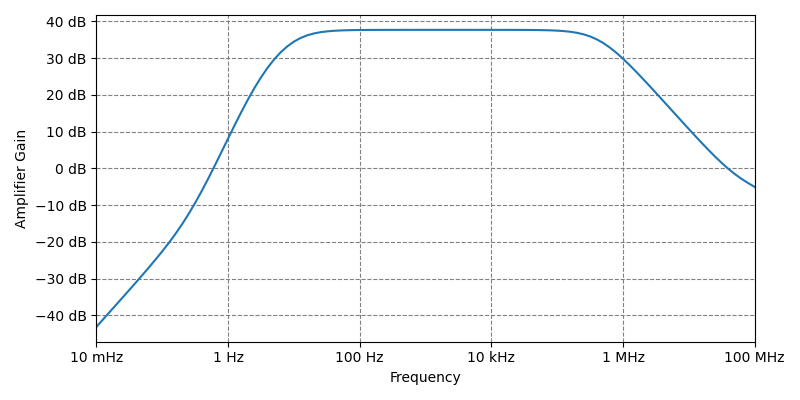
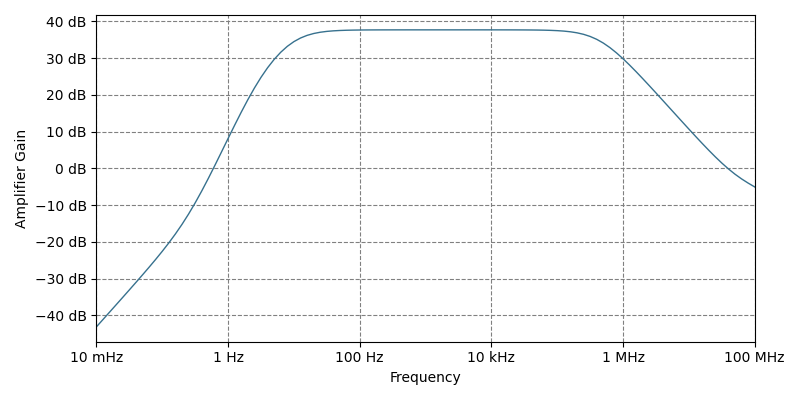
change color line

diff --git a/direct-coupling-lab/source code/direct-coupling-freq-res.py b/direct-coupling-lab/source code/direct-coupling-freq-res.py
@@ -26,7 +26,7 @@ def main():
     formatter2 = EngFormatter(unit='dB')
     axis1.xaxis.set_major_formatter(formatter1)
     axis1.yaxis.set_major_formatter(formatter2)
-    axis1.plot(freq, vout)
+    axis1.plot(freq, vout, linewidth=1, color='#37718e')
     axis1.set_xlabel('Frequency')
     axis1.set_ylabel('Amplifier Gain')
     plt.autoscale(enable=True, axis='x', tight=True)
